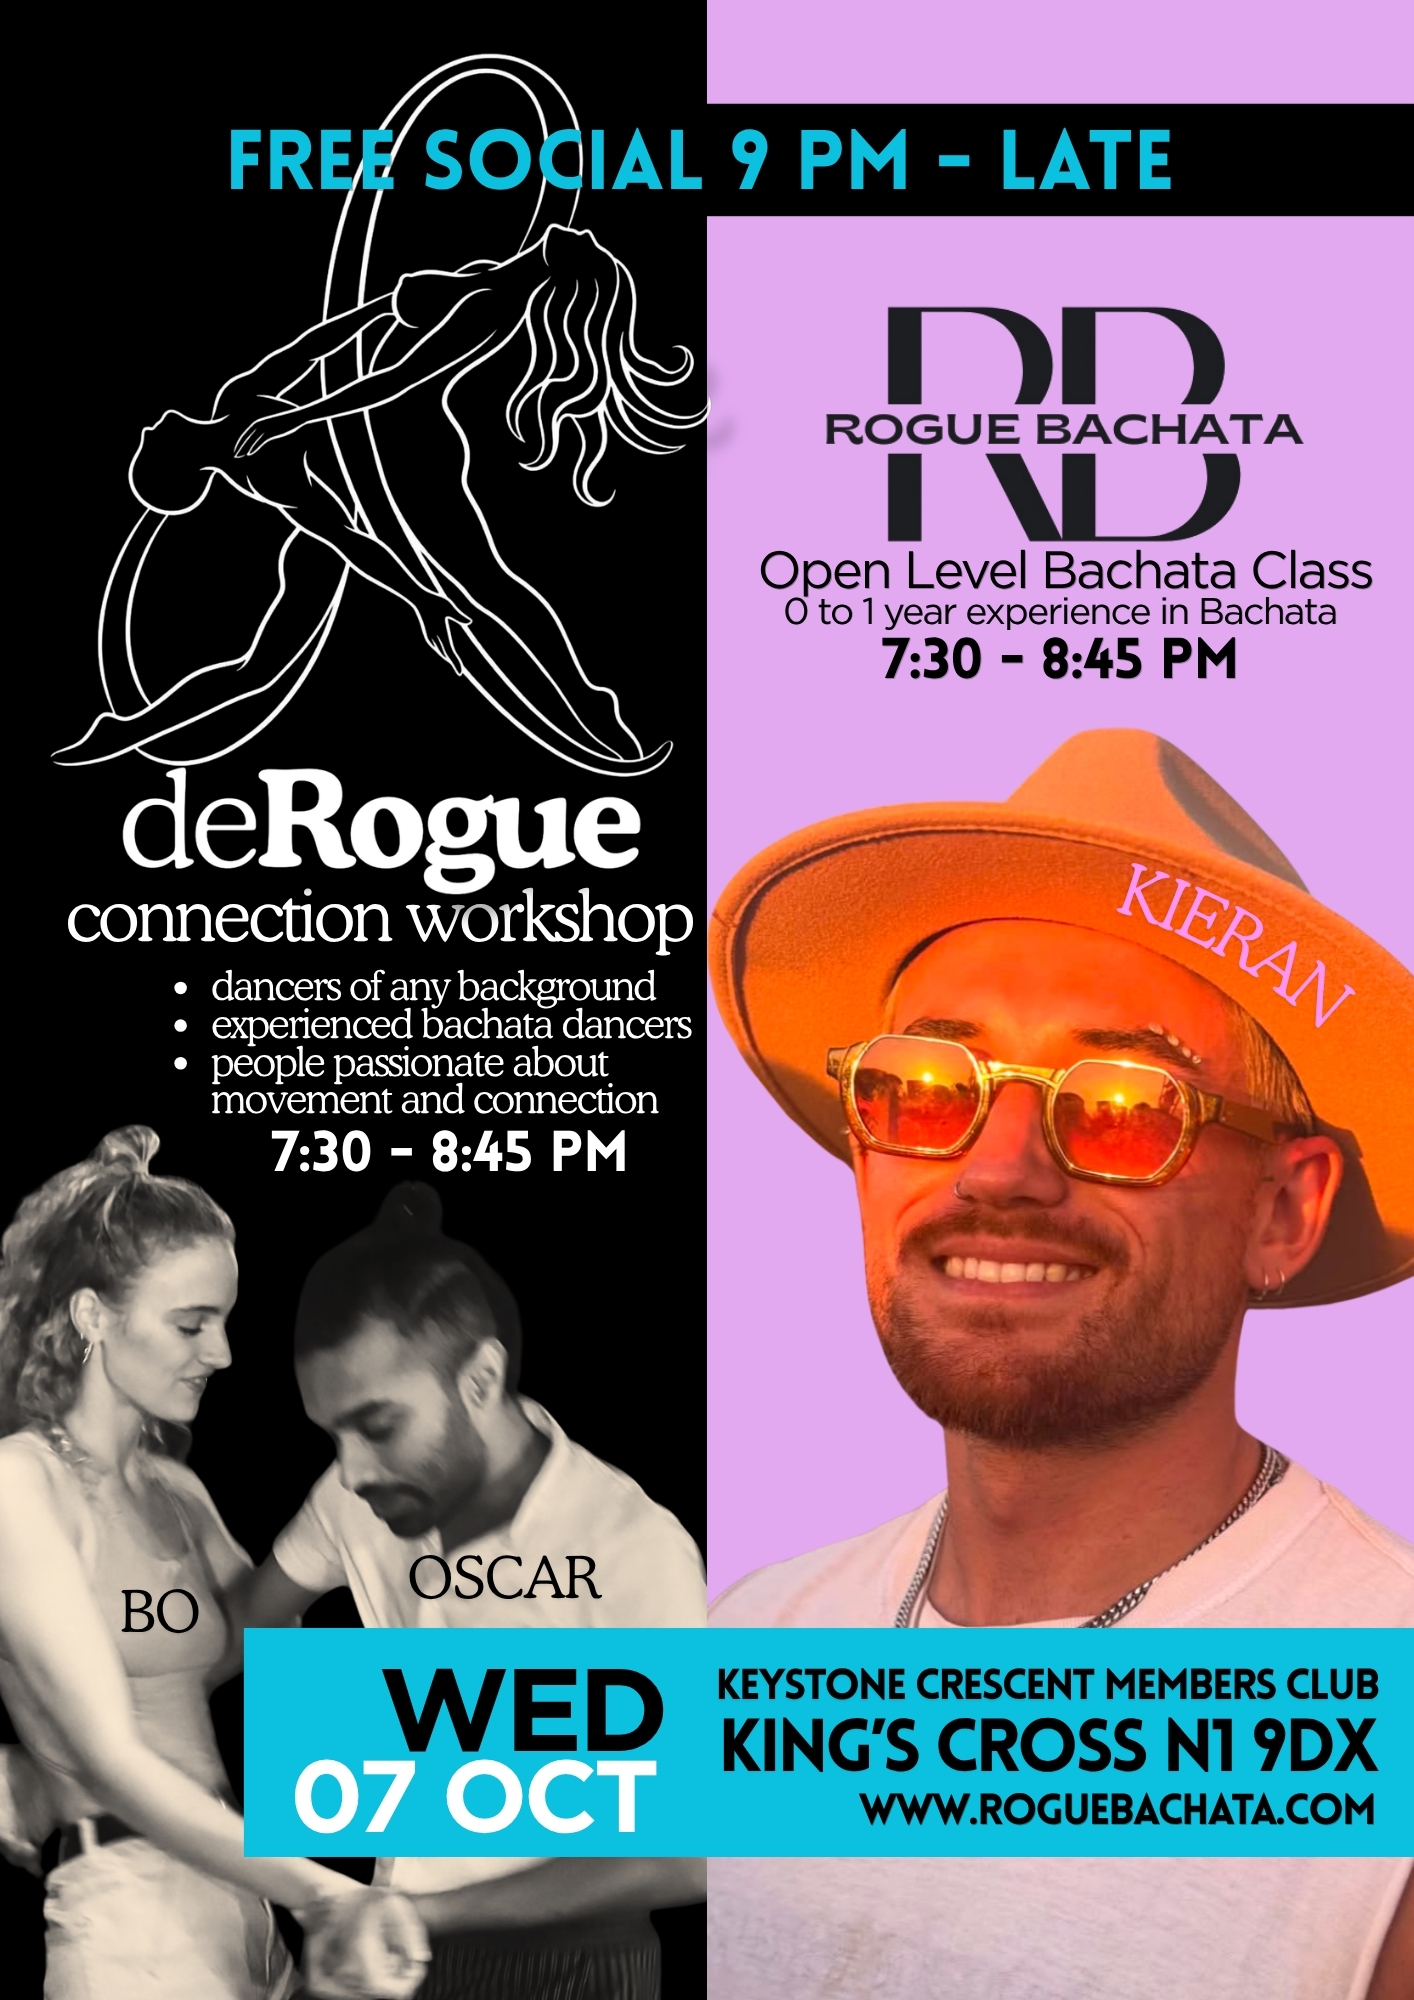
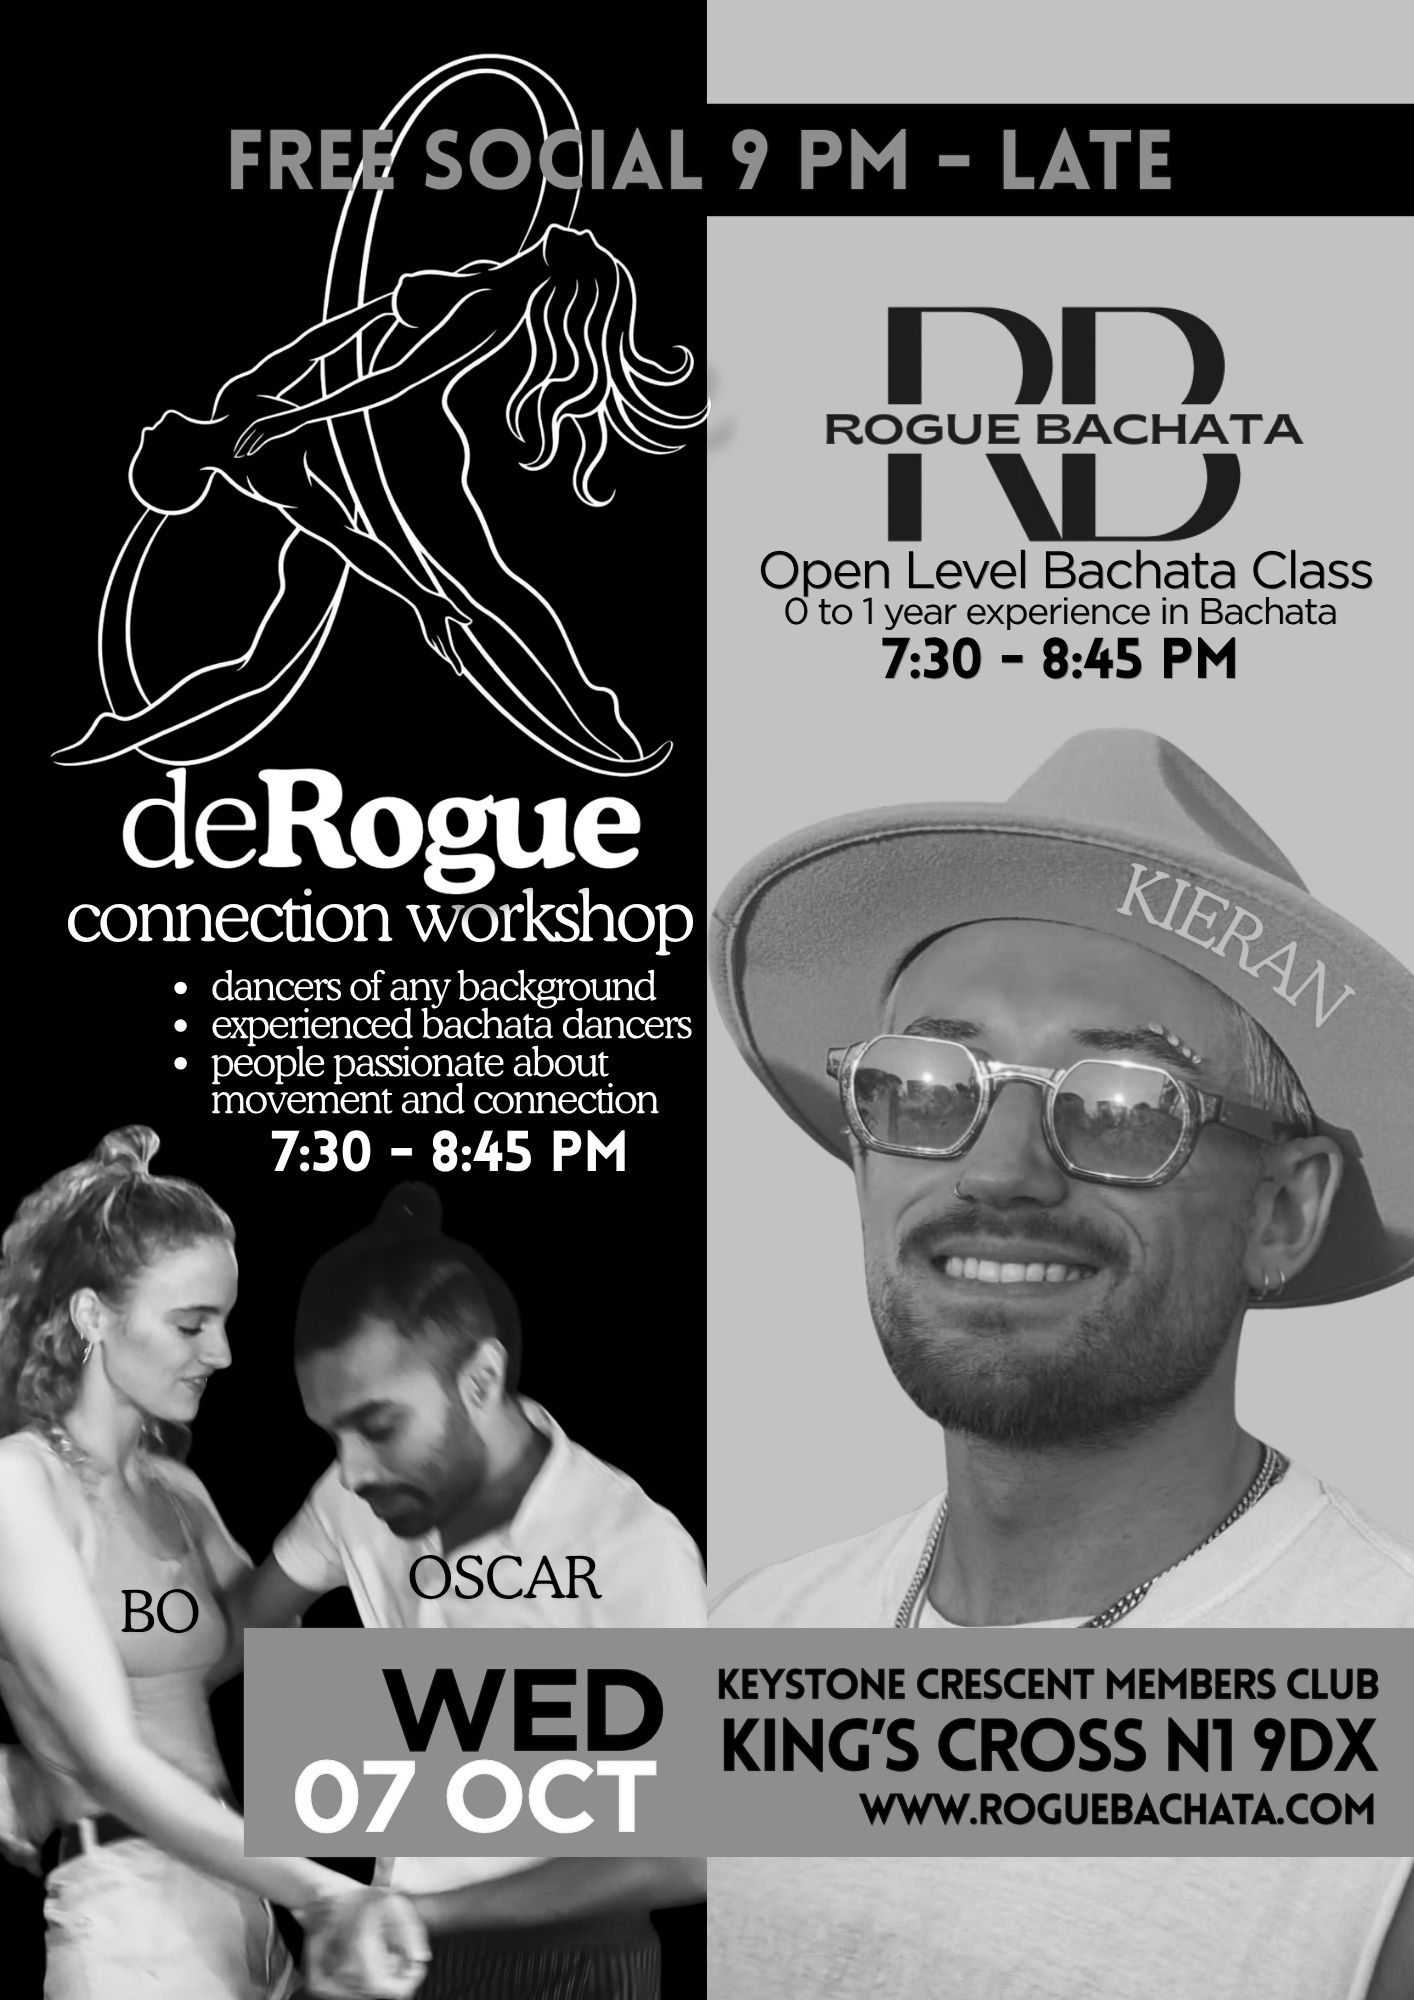
Show the 7 October poster in black and white.
derogue.art stays fully greyscale, including this workshop image. Later dates still do not use the poster.

diff --git a/index.html b/index.html
@@ -197,7 +197,7 @@
     height: auto;
     display: block;
     border: 1px solid var(--rule);
-    filter: none;
+    filter: grayscale(1);
   }
   .event-poster figcaption {
     margin-top: 8px;
